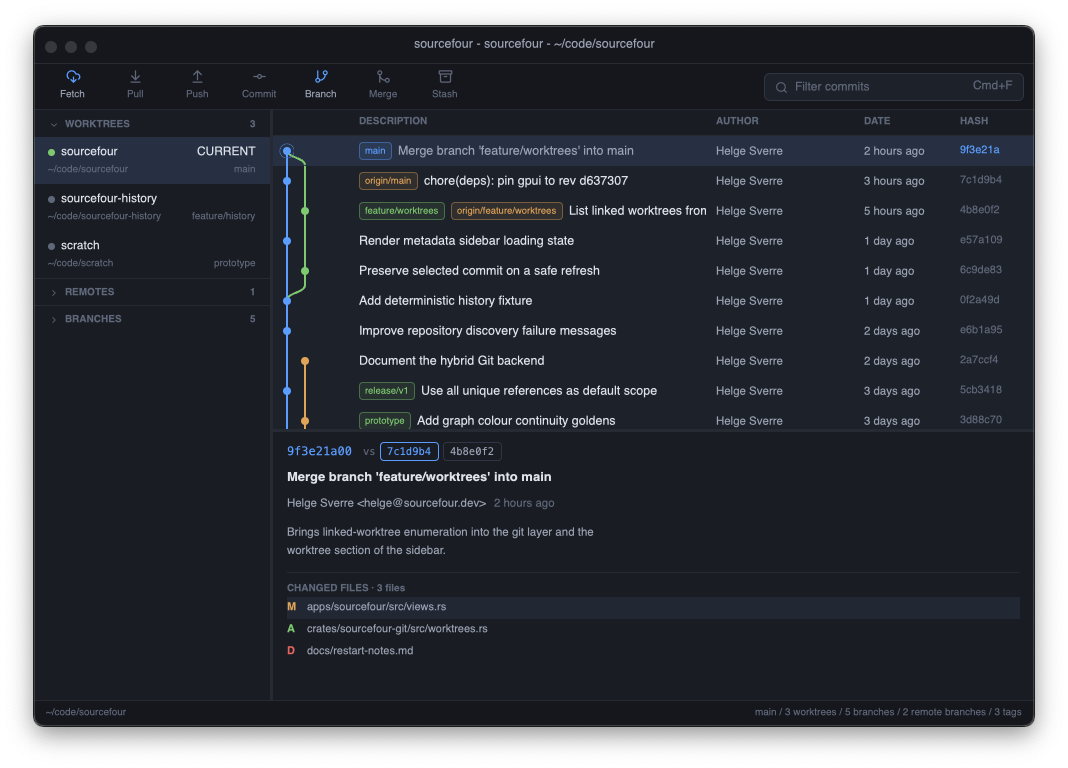
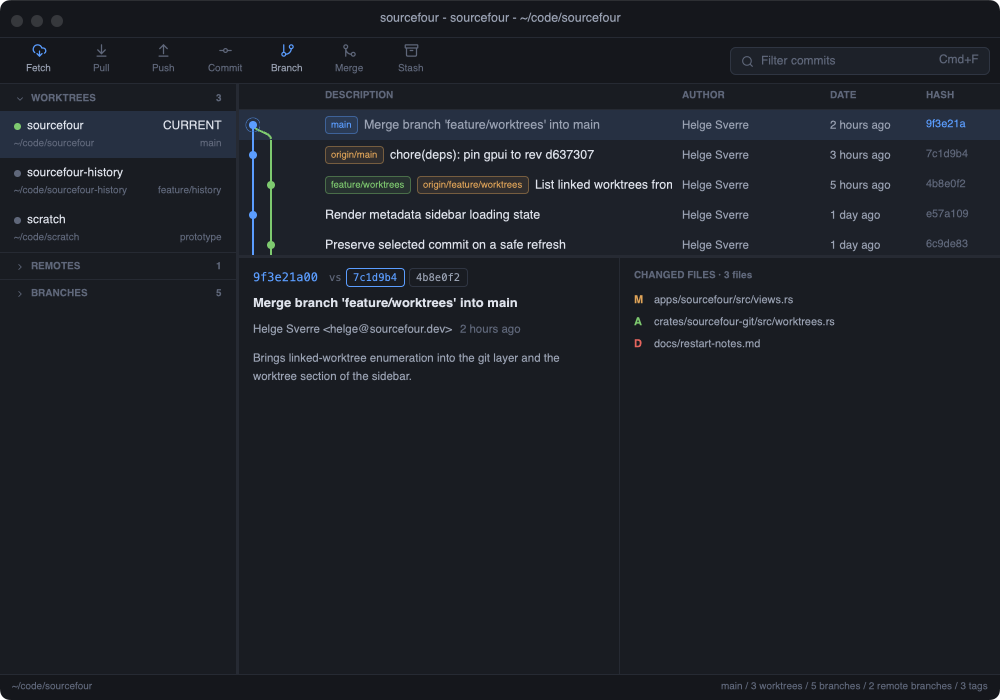
feat: two-column details — message left, changed files right
The details pane splits into a message column (hash, subject, author,
scrollable body) and a changed-files column with its own scroll, divided
by a hairline. Goldens re-recorded for the new layout.

Also hardens the capture harness: screencapture -o drops the window
shadow whose size varies with key-window state, and window-id.swift now
matches by launched pid so stale or installed Sourcefour windows can't
be captured by mistake.

diff --git a/scripts/window-id.swift b/scripts/window-id.swift
@@ -1,11 +1,17 @@
-// Prints the window number of the app's main window, for capture scripts.
+// Prints the window number of the Sourcefour window owned by the given pid,
+// for capture scripts. Matching by pid keeps stale or unrelated Sourcefour
+// windows (a previous capture iteration, the installed app) out of captures.
 import CoreGraphics
 import Foundation
+guard CommandLine.arguments.count > 1, let pid = Int(CommandLine.arguments[1]) else {
+    FileHandle.standardError.write(Data("usage: window-id.swift <pid>\n".utf8))
+    exit(2)
+}
 let list = CGWindowListCopyWindowInfo([.optionAll], kCGNullWindowID) as! [[String: Any]]
 for entry in list {
-    let owner = (entry["kCGWindowOwnerName"] as? String ?? "").lowercased()
+    let owner = entry["kCGWindowOwnerPID"] as? Int ?? -1
     let name = entry["kCGWindowName"] as? String ?? ""
-    if owner.contains("sourcefour"), name == "Sourcefour" {
+    if owner == pid, name == "Sourcefour" {
         print(entry["kCGWindowNumber"] as! Int)
         break
     }

diff --git a/apps/sourcefour/src/views.rs b/apps/sourcefour/src/views.rs
@@ -2203,6 +2203,24 @@ impl SourcefourWindow {
     }
 
     fn details(&self, cx: &mut gpui::Context<Self>) -> gpui::AnyElement {
+        let lines = self.detail_lines();
+        if self.details_collapsed {
+            return self.collapsed_details(&lines.hash, &lines.subject, cx);
+        }
+        div()
+            .h(px(self.panels.details))
+            .flex_none()
+            .flex()
+            .bg(self.theme.bg_panel)
+            .child(self.details_message_column(lines, cx))
+            .child(div().w(px(1.0)).flex_none().bg(self.theme.border))
+            .child(self.details_files_column(cx))
+            .into_any_element()
+    }
+
+    /// The left details column: hash row, subject, author line, and the
+    /// scrollable commit body.
+    fn details_message_column(&self, lines: DetailLines, cx: &mut gpui::Context<Self>) -> Div {
         let DetailLines {
             hash,
             subject,
@@ -2211,19 +2229,15 @@ impl SourcefourWindow {
             committer,
             parent_choices,
             body,
-        } = self.detail_lines();
-        if self.details_collapsed {
-            return self.collapsed_details(&hash, &subject, cx);
-        }
+        } = lines;
         div()
-            .h(px(self.panels.details))
-            .flex_none()
+            .flex_1()
+            .min_w(px(1.0))
             .flex()
             .flex_col()
             .gap(px(6.0))
             .px(px(14.0))
             .pt(px(10.0))
-            .bg(self.theme.bg_panel)
             .child(self.details_hash_row(&hash, &parent_choices, cx))
             .child(
                 div()
@@ -2261,26 +2275,37 @@ impl SourcefourWindow {
                             .text_size(px(11.5))
                             .text_color(self.theme.text_secondary)
                             .child(body)
-                    }))
-                    .child(
-                        div()
-                            .mt(px(8.0))
-                            .pt(px(8.0))
-                            .border_t_1()
-                            .border_color(self.theme.border)
-                            .text_size(px(10.0))
-                            .font_weight(FontWeight::BOLD)
-                            .text_color(self.theme.text_faint)
-                            .child(self.files.as_ref().map_or_else(
-                                || String::from("CHANGED FILES"),
-                                |files| {
-                                    format!(
-                                        "CHANGED FILES · {}",
-                                        counted(files.files.len(), "file")
-                                    )
-                                },
-                            )),
-                    )
+                    })),
+            )
+    }
+
+    /// The right details column: the changed-files header and scrollable list.
+    fn details_files_column(&self, cx: &mut gpui::Context<Self>) -> Div {
+        div()
+            .flex_1()
+            .min_w(px(1.0))
+            .flex()
+            .flex_col()
+            .px(px(14.0))
+            .pt(px(10.0))
+            .child(
+                div()
+                    .pb(px(6.0))
+                    .text_size(px(10.0))
+                    .font_weight(FontWeight::BOLD)
+                    .text_color(self.theme.text_faint)
+                    .child(self.files.as_ref().map_or_else(
+                        || String::from("CHANGED FILES"),
+                        |files| format!("CHANGED FILES · {}", counted(files.files.len(), "file")),
+                    )),
+            )
+            .child(
+                div()
+                    .id("details-files-scroll")
+                    .flex_grow()
+                    .min_h(px(0.0))
+                    .overflow_y_scroll()
+                    .pb(px(6.0))
                     .children(
                         self.files
                             .clone()
@@ -2290,7 +2315,6 @@ impl SourcefourWindow {
                             .map(|(index, file)| self.file_row(index, &file, cx)),
                     ),
             )
-            .into_any_element()
     }
 
     /// Switches the comparison parent and reloads files for the selection.
